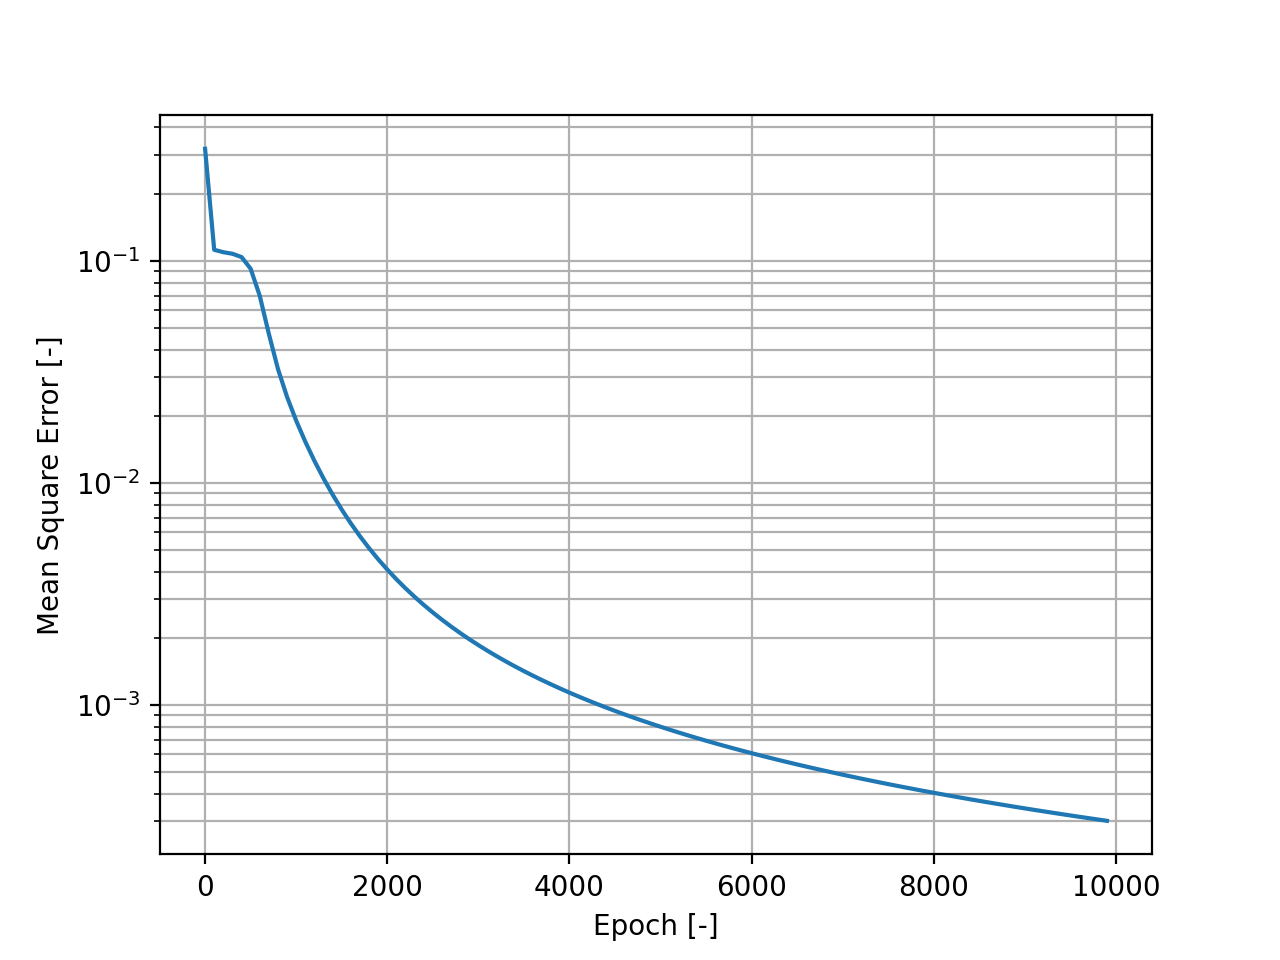
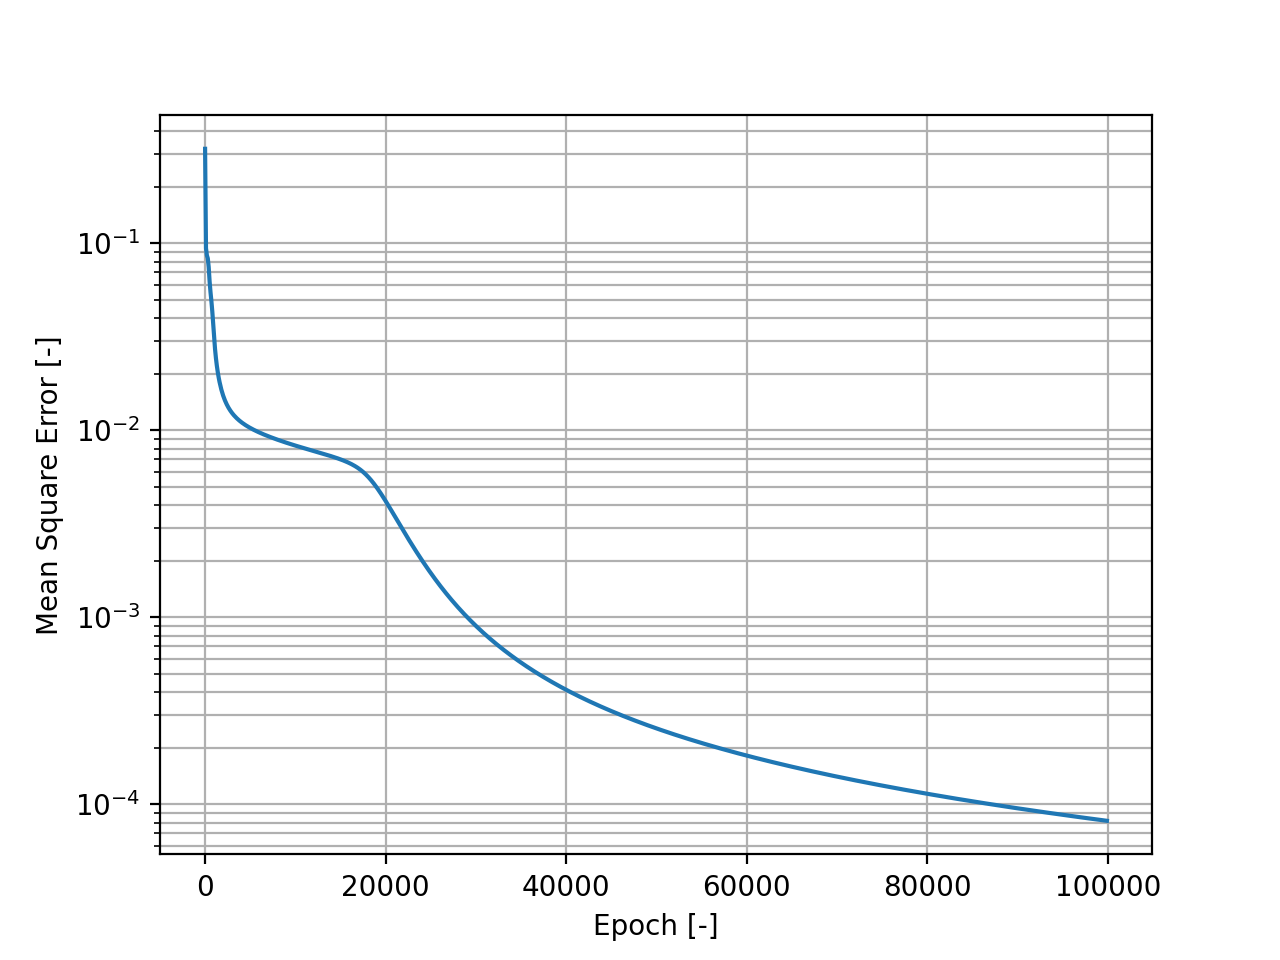
organise

diff --git a/main.py b/main.py
@@ -6,7 +6,7 @@ from src.neural_network import NeuralNetwork
 # Example usage
 num_samples = 100
 learning_rate = 0.1
-epochs = 20000
+epochs = 100000
 
 x_train, y_train = build_training(num_samples)
 # x_train, y_train = load_training()
